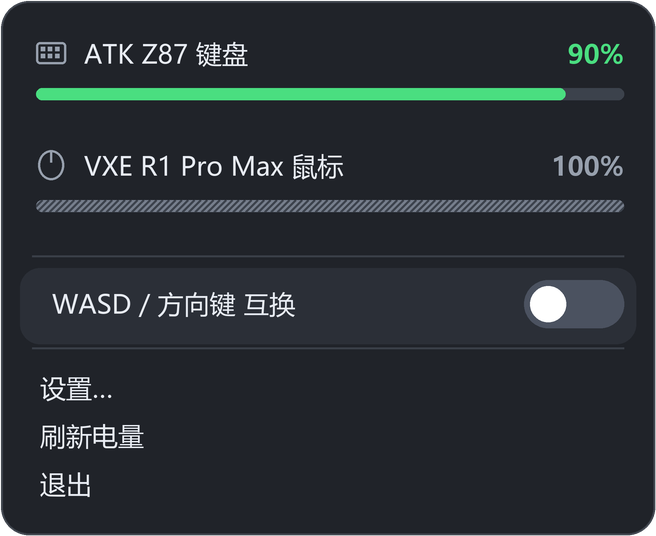
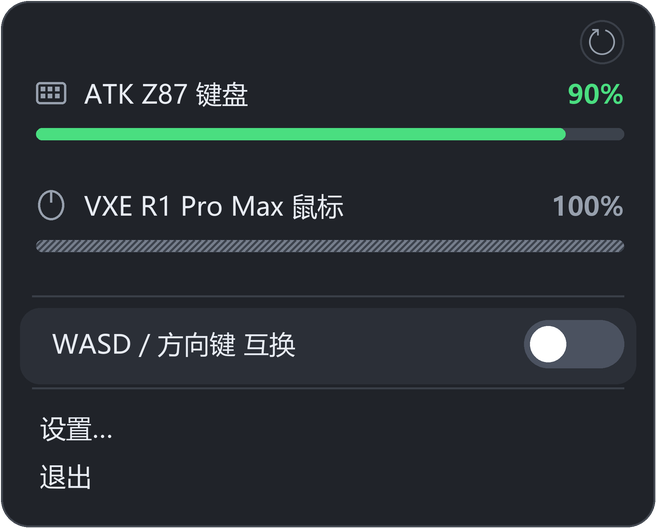
面板：去掉菜单里的「刷新电量」，右上角加圆形刷新按钮

diff --git a/panel.py b/panel.py
@@ -117,7 +117,7 @@ def round_region(win, w, h, r):
 class Panel:
     """托盘面板：整块用 PIL 画好再显示，边缘和文字都是抗锯齿的。"""
 
-    DW, DH = 328, 268
+    DW, DH = 328, 264
     PAD = 16
 
     def __init__(self, root, app):
@@ -131,6 +131,8 @@ class Panel:
         self._menu_labels = []
         self._hover = None
         self._toggle_rect = None
+        self._refresh_rect = None
+        self._hover_refresh = False
 
     # ---------- 显示 ----------
     def show(self):
@@ -216,10 +218,9 @@ class Panel:
 
     # ---------- 绘制 ----------
     def _menu_items(self):
-        items = [("设置…", self.app.open_settings), ("刷新电量", self.app.refresh_battery),
-                 ("退出", self.app.quit)]
+        items = [("设置…", self.app.open_settings), ("退出", self.app.quit)]
         for label, cb in getattr(self.app.plugins, "menu_items", []):
-            items.insert(2, (label, cb))
+            items.insert(1, (label, cb))
         return items
 
     def _redraw(self):
@@ -227,15 +228,15 @@ class Panel:
             return
         items = self._menu_items()
         self._menu_labels = [i[0] for i in items]
-        img, rects = render.compose(
+        img, rects, geo = render.compose(
             self.app.battery_snapshot(), self.app.keyswap.enabled, self._hover,
-            self._menu_labels, self.DW, self.DH, scale=self.ds)
+            self._menu_labels, self.DW, self.DH, scale=self.ds,
+            hover_refresh=self._hover_refresh)
         self.photo = ImageTk.PhotoImage(img)
         self.lbl.configure(image=self.photo)
         self._menu_rects = [(r[0], r[1], r[2], r[3]) for r in rects]
-        y = 14 + 56 * len(self.app.battery_snapshot())
-        ty = y + 16
-        self._toggle_rect = (self.PAD - 6, ty - 8, self.DW - self.PAD + 6, ty + 30)
+        self._toggle_rect = geo["toggle"]
+        self._refresh_rect = geo["refresh"]
 
     def update(self):
         self._redraw()
@@ -245,6 +246,10 @@ class Panel:
         return evt.x / self.ds, evt.y / self.ds
 
     def _hit(self, x, y):
+        if self._refresh_rect:
+            x1, y1, x2, y2 = self._refresh_rect
+            if x1 <= x <= x2 and y1 <= y <= y2:
+                return "refresh", None
         if self._toggle_rect:
             x1, y1, x2, y2 = self._toggle_rect
             if x1 <= x <= x2 and y1 <= y <= y2:
@@ -254,23 +259,48 @@ class Panel:
                 return "menu", i
         return None, None
 
+    def _pointer_design(self):
+        """鼠标在面板里的设计坐标；窗口没开时返回 (-1, -1)。"""
+        try:
+            px, py = self.win.winfo_pointerxy()
+            return ((px - self.win.winfo_rootx()) / self.ds,
+                    (py - self.win.winfo_rooty()) / self.ds)
+        except Exception:
+            return -1, -1
+
     def _on_motion(self, evt):
         x, y = self._to_design(evt)
         kind, idx = self._hit(x, y)
         label = self._menu_labels[idx] if kind == "menu" else None
-        if label != self._hover:
+        hov_btn = kind == "refresh"
+        if label != self._hover or hov_btn != self._hover_refresh:
             self._hover = label
+            self._hover_refresh = hov_btn
             self._redraw()
 
     def _on_leave(self, _evt):
-        if self._hover is not None:
+        if self._hover is not None or self._hover_refresh:
             self._hover = None
+            self._hover_refresh = False
             self._redraw()
 
     def _on_click(self, evt):
         x, y = self._to_design(evt)
         kind, idx = self._hit(x, y)
-        if kind == "toggle":
+        if kind == "refresh":
+            self.app.refresh_battery()
+            self._hover_refresh = True
+            self._redraw()
+            # 按下去亮一下，之后按鼠标是否还在按钮上恢复
+            def restore():
+                if not (self.win and self.win.winfo_exists()):
+                    return
+                px, py = self._pointer_design()
+                k, _i = self._hit(px, py)
+                self._hover_refresh = (k == "refresh")
+                self._redraw()
+            self.root.after(350, restore)
+        elif kind == "toggle":
             self.app.on_swap_changed(not self.app.keyswap.enabled)
             self._redraw()
         elif kind == "menu":

diff --git a/render.py b/render.py
@@ -82,7 +82,38 @@ def _sleep_bar(img, box, radius, last, S):
     _hatch(img, (x1, y1, x2, y2), radius, DIM_HATCH, S, step=4.0, lw=1.1)
 
 
-def render_panel(devices, swap_on, hover, width, height, scale=1.0, ss=3):
+MDL2_FONT = r"C:\Windows\Fonts\segmdl2.ttf"     # Segoe MDL2 Assets
+GLYPH_REFRESH = "\ue72c"
+
+
+def _draw_refresh(d, sc, width, pad, hovered):
+    """右上角圆形刷新按钮，返回它的设计坐标矩形（用于点击命中）。"""
+    r = 11
+    cx, cy = width - pad - r, 10 + r
+    glyph = TXT if hovered else SUB
+    d.ellipse((sc(cx - r), sc(cy - r), sc(cx + r), sc(cy + r)),
+              fill=CARD_HI if hovered else None,
+              outline=LINE, width=max(1, int(sc(1))))
+    drawn = False
+    try:
+        f = ImageFont.truetype(MDL2_FONT, int(sc(13)))
+        bb = d.textbbox((0, 0), GLYPH_REFRESH, font=f)
+        d.text((sc(cx) - (bb[0] + bb[2]) / 2.0, sc(cy) - (bb[1] + bb[3]) / 2.0),
+               GLYPH_REFRESH, font=f, fill=glyph)
+        drawn = True
+    except Exception:
+        drawn = False
+    if not drawn:                       # 没有 MDL2 字体就手画一个圆弧箭头
+        gr = 5.2
+        d.arc((sc(cx - gr), sc(cy - gr), sc(cx + gr), sc(cy + gr)),
+              start=45, end=315, fill=glyph, width=max(1, int(sc(1.5))))
+        ax, ay = cx + gr * 0.55, cy - gr * 0.80
+        d.polygon([(sc(ax - 3.0), sc(ay - 0.4)), (sc(ax + 2.6), sc(ay - 2.0)),
+                   (sc(ax + 1.0), sc(ay + 3.2))], fill=glyph)
+    return (cx - r, cy - r, cx + r, cy + r)
+
+
+def render_panel(devices, swap_on, hover, width, height, scale=1.0, ss=3, hover_refresh=False):
     """devices: [{'key','label','state','level'}]；hover: 菜单项文案或 None。"""
     S = scale * ss
     W, H = int(width * S), int(height * S)
@@ -97,7 +128,9 @@ def render_panel(devices, swap_on, hover, width, height, scale=1.0, ss=3):
                         radius=sc(14), fill=CARD, outline=LINE, width=max(1, int(sc(1))))
 
     P = 16
-    y = 14
+    TOP = 34                     # 顶部留一条给右上角的刷新按钮
+    y = TOP
+    refresh_rect = _draw_refresh(d, sc, width, P, hover_refresh)
     rows = []
     for dev in devices:
         state, level = dev["state"], dev["level"]
@@ -147,7 +180,8 @@ def render_panel(devices, swap_on, hover, width, height, scale=1.0, ss=3):
 
     # 开关行
     ty = y + 16
-    d.rounded_rectangle((sc(P - 6), sc(ty - 8), sc(width - P + 6), sc(ty + 30)),
+    toggle_rect = (P - 6, ty - 8, width - P + 6, ty + 30)
+    d.rounded_rectangle((sc(toggle_rect[0]), sc(toggle_rect[1]), sc(toggle_rect[2]), sc(toggle_rect[3])),
                         radius=sc(10), fill=CARD_HI)
     d.text((sc(P + 10), sc(ty + 1)), "WASD / 方向键 互换", font=_font(int(sc(13))), fill=TXT)
     px, py = width - P - 50, ty - 2
@@ -159,11 +193,13 @@ def render_panel(devices, swap_on, hover, width, height, scale=1.0, ss=3):
     # 菜单
     my = ty + 42
     d.line((sc(P), sc(my - 10), sc(width - P), sc(my - 10)), fill=LINE, width=max(1, int(sc(1))))
-    return img, my
+    return img, my, {"toggle": toggle_rect, "refresh": refresh_rect}
 
 
-def compose(devices, swap_on, hover_label, menu_labels, width, height, scale=1.0, ss=3):
-    img, my = render_panel(devices, swap_on, hover_label, width, height, scale, ss)
+def compose(devices, swap_on, hover_label, menu_labels, width, height, scale=1.0, ss=3,
+            hover_refresh=False):
+    img, my, geo = render_panel(devices, swap_on, hover_label, width, height, scale, ss,
+                                hover_refresh=hover_refresh)
     d = ImageDraw.Draw(img)
     S = scale * ss
     P = 16
@@ -174,7 +210,7 @@ def compose(devices, swap_on, hover_label, menu_labels, width, height, scale=1.0
         d.text((S * (P + 4), S * (ry + 1)), label, font=_font(int(S * 13)), fill=color)
         items.append((P - 6, ry - 4, width - P + 6, ry + 20))
     out_size = (max(1, int(width * scale)), max(1, int(height * scale)))
-    return img.resize(out_size, Image.LANCZOS), items
+    return img.resize(out_size, Image.LANCZOS), items, geo
 
 
 

diff --git a/README.md b/README.md
@@ -17,6 +17,7 @@
 - **弹出位置固定**：卡片和面板都贴着托盘图标居中，**不跟着鼠标漂**，每次都在同一处
 - **自动钉在任务栏**：Win11 默认把新图标塞进 `^` 隐藏区，本工具启动时发现被收进去会自己出来
 - **键盘 + 鼠标电量**：直接和 2.4G 接收器对话，**不依赖任何厂商驱动**
+- **右上角圆形刷新键**：面板顶上一个圆按钮，点一下立刻重读电量，不用翻菜单
 - **休眠也显示电量**：读不到时显示上次读到的百分比（灰色）+ 斜纹电量条，一看就知道是旧数据而不是没电
 - **WASD ↔ 方向键 互换**：面板开关或全局热键，随时可撤，**不修改键盘固件**
 - **热键可自定义**：设置里点「录制」按下组合键即可，也能关掉
@@ -66,7 +67,7 @@ python main.py
 | 面板里点开关 | 开启 / 关闭 WASD ↔ 方向键互换 |
 | `Ctrl+Alt+W` | 默认全局热键，切换互换（可在设置里改） |
 | 设置… | 修改热键、开机自启、电量刷新间隔 |
-| 刷新电量 | 立即重新读取 |
+| 面板右上角的圆形按钮 | 立即重新读取电量（悬停高亮，点一下会闪一下） |
 
 **互换开启时**：按 W/A/S/D 出来的是 ↑/←/↓/→，按方向键出来的是 WASD。
 带 `Ctrl / Alt / Shift / Win` 时不互换（`Ctrl+W` 还是关窗口），这是刻意设计的。
